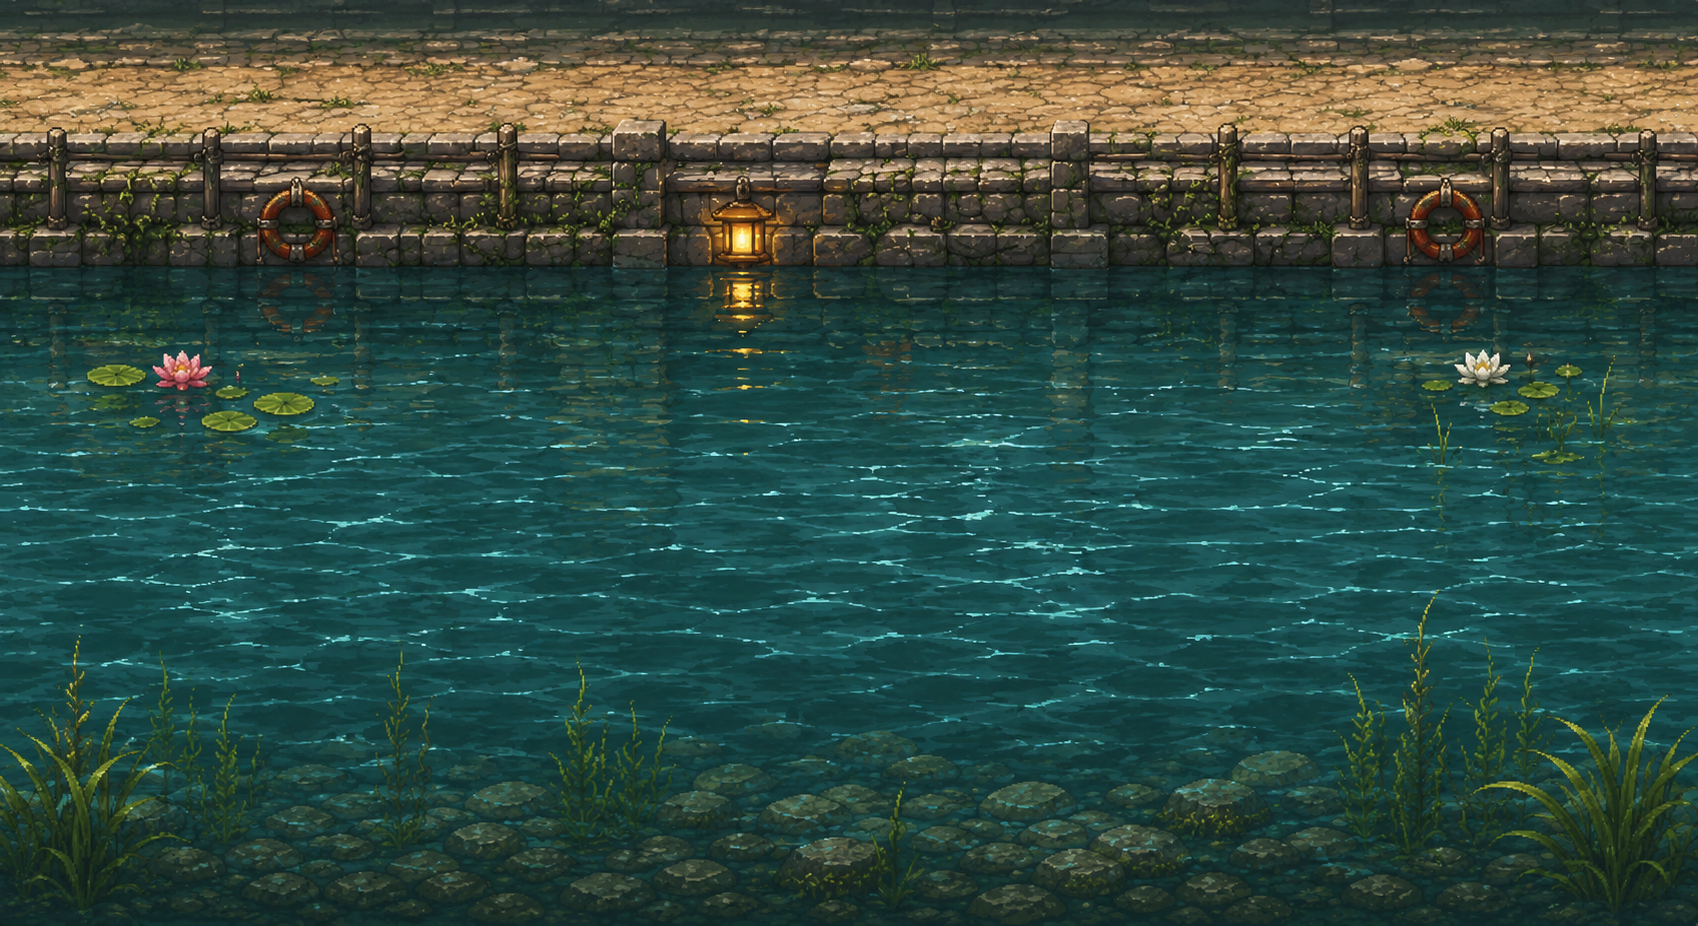
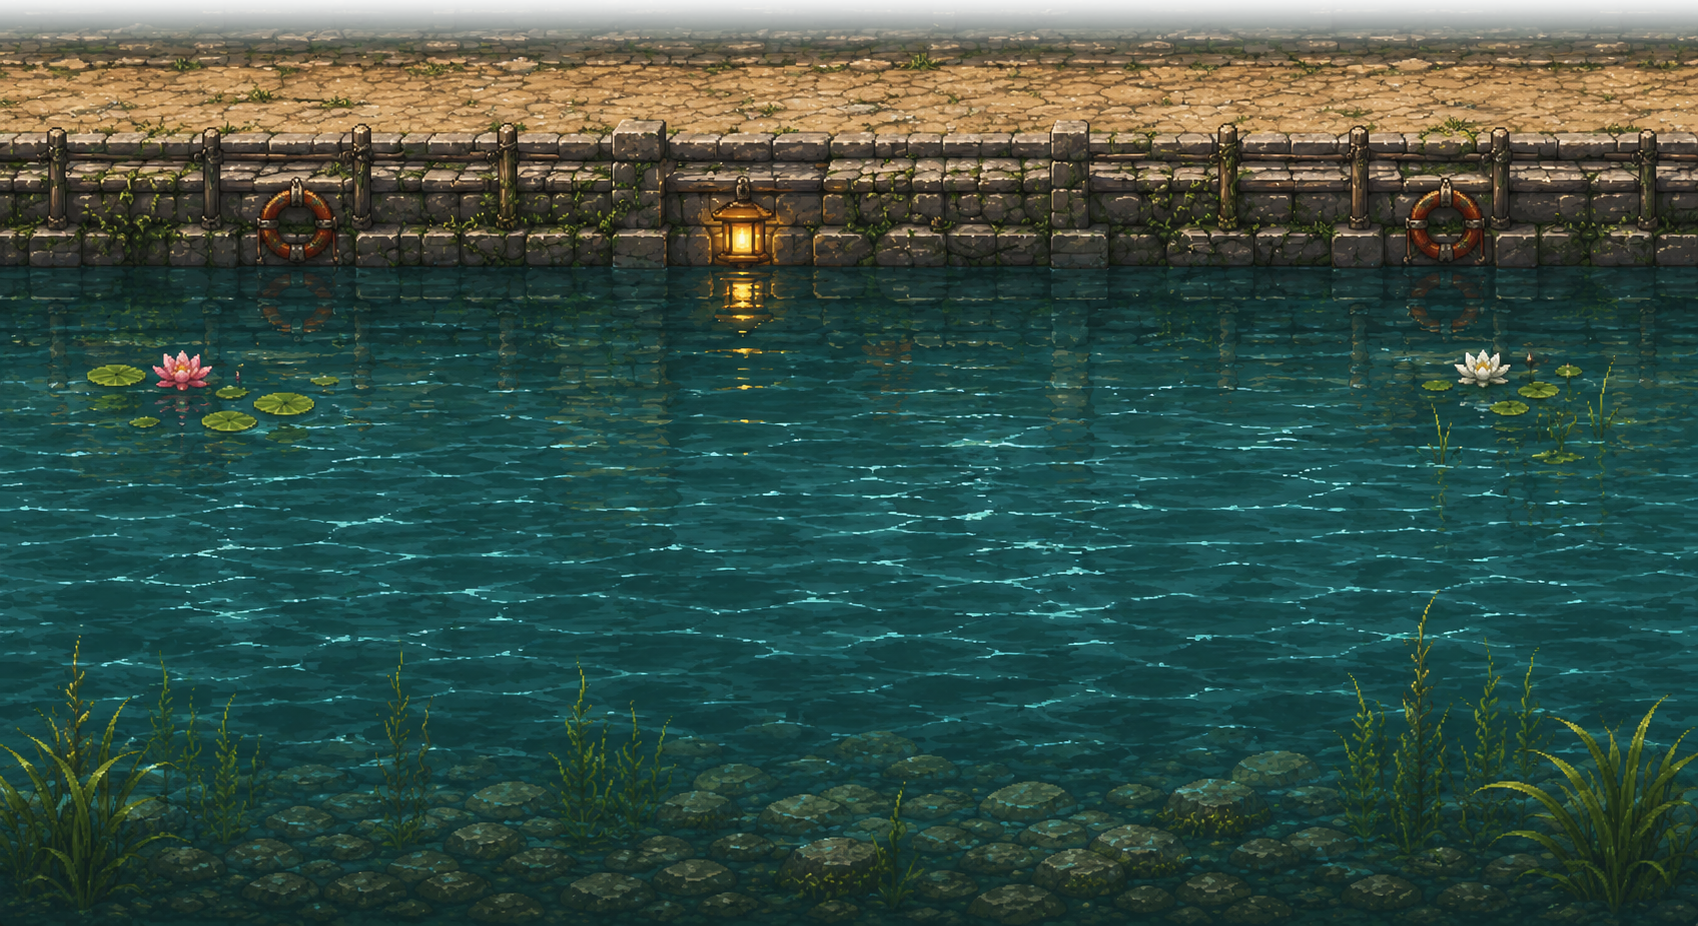
feat: 감숙성 내부 UX/배경 개선 — 성문 제거, 벽 반복 5칸으로 축소, 물 애니메이션 추가, 우측 성벽 마감
주요 변경사항:
- 성문(gate) 데코/manifest 키 완전 제거 (img_gate 로직 삭제)
- 성벽 근경(bg_inside_wall) 반복을 6칸→5칸으로 축소, 4번째 칸을 bg_inside_wall_gate로 교체
  → addTiledWall 함수를 count/gateIndex를 인자로 받도록 변경
- NPC 말풍선(Npc.ts) 위치 동탁만 미세조정 가능하도록 BUBBLE_OFFSET_ADJUST 추가
- 감숙성 내부 발판(platform) 전체 제거 (ye_castle.json platforms → [])
- 상태바(StatusBar.tsx) 아이템창(🎒)/장비창(🛡️) 버튼 삭제 (단축키 I/E는 유지)
- 수면 밴드 애니메이션 추가
  → bg_river_animation.png (4프레임 세로 스프라이트시트, 1350×291 프레임)
  → manifest에 스프라이트시트로 등록, GameScene에서 오버레이로 겹쳐 배치
  → 220ms 주기로 프레임 순환, 정지 이미지(bg_river) 위에서 물결만 흐르는 효과
- 우측 성벽 마감(right_wall.png) 추가 및 맵 배치
  → manifest에 img_right_wall 등록
  → GameScene에 rightWall 데코 종류 추가
  → ye_castle.json에 x:2932, width:536, height:420으로 배치

Changed region(s): [[0.0, 0.0, 1.0, 0.0605]]

diff --git a/frontend/src/game/scenes/GameScene.ts b/frontend/src/game/scenes/GameScene.ts
@@ -53,8 +53,8 @@ interface MapData {
   underFloorHeight?: number
   npcSpawns: { code: string; x: number; y: number }[]
   monsterSpawns: { code: string; xMin: number; xMax: number; max: number }[]
-  /** 장식 건물 (충돌 없음): 관청/성문/거리 상가 등 — groundY에 바닥을 맞춰 배치 */
-  decor?: { kind: 'gwan' | 'gate' | 'buildings'; x: number; width: number; height: number }[]
+  /** 장식 건물 (충돌 없음): 관청/거리 상가/우측 성벽 마감 등 — groundY에 바닥을 맞춰 배치 */
+  decor?: { kind: 'gwan' | 'buildings' | 'rightWall'; x: number; width: number; height: number }[]
   /** 포탈: 근처에서 ↑키로 targetMap으로 이동 (GAME_DESIGN 맵 이동) */
   portals?: PortalDef[]
 }
@@ -62,8 +62,8 @@ interface MapData {
 /** decor kind → 아트 키 매핑. 실제 아트가 없으면 도형 placeholder 대신 생략한다. */
 const DECOR_TEXTURES: Record<string, { art: string }> = {
   gwan: { art: 'img_gwan' },
-  gate: { art: 'img_gate' },
   buildings: { art: 'img_buildings' },
+  rightWall: { art: 'img_right_wall' },
 }
 
 /** 포탈 상호작용 반경 (px) */
@@ -97,7 +97,7 @@ const DEPTH = {
   BG_FAR: -100,   // 먼 배경(하늘/원경)
   BG_MID: -80,    // 중경(성벽/산/건물 실루엣)
   BG_NEAR: -60,   // 근경(반복 성벽/나무)
-  DECOR: -52,     // 관청/성문 등 건물 (액터 뒤)
+  DECOR: -52,     // 관청 등 건물 (액터 뒤)
   GROUND: -50,    // 보행로/발판/장애물/사다리
   FOREGROUND: -40, // 바닥 아래 장식(연못) — 돌바닥 위, 액터 아래
 } as const
@@ -137,6 +137,13 @@ export class GameScene extends Phaser.Scene {
   private tileScaleFor(key: string, targetH: number) {
     const img = this.textures.get(key).getSourceImage() as HTMLImageElement
     return targetH / img.height
+  }
+
+  /** tileScaleFor와 달리 스프라이트시트의 개별 프레임 높이 기준으로 스케일을 계산한다
+   * (스프라이트시트는 getSourceImage()가 시트 전체 크기를 반환해 tileScaleFor를 못 쓴다). */
+  private tileScaleForFrame(key: string, frame: number, targetH: number) {
+    const f = this.textures.get(key).get(frame)
+    return targetH / f.height
   }
 
   constructor() {
@@ -190,6 +197,38 @@ export class GameScene extends Phaser.Scene {
       return layer
     }
 
+    /**
+     * addLayer와 달리 tileSprite(GPU REPEAT) 대신 타일 폭만큼 개별 Image를 나란히 배치한다.
+     * tileSprite는 반복 단위를 통째로 같은 텍스처로만 채우기 때문에 "특정 칸만 다른 그림"이
+     * 불가능해서, 성벽 중간 칸에 성문(gate) 변형을 끼워 넣으려면 이 방식이 필요하다.
+     * count/gateIndex는 호출부에서 직접 지정한다 — cover(scroll) 기준으로 자동 계산하면
+     * parallax(스크롤계수 0.6) 여유분 때문에 카메라를 끝까지 밀어도 화면에 거의/전혀 안 잡히는
+     * 칸까지 만들어져(마지막 칸은 화면에 아예 안 잡히고, 그 앞 칸도 가장자리 일부만 잠깐 보임)
+     * 값을 눈으로 확인하며 맞추는 게 낫다.
+     * 타일 폭을 정수로 반올림해 배치해야 setRoundPixels(true)에서 칸마다 독립적으로 반올림되며
+     * 생기는 1px 이음새를 막을 수 있다.
+     */
+    const addTiledWall = (
+      key: string, gateKey: string, scroll: number, depth: number, heightPx: number, topY: number,
+      count: number, gateIndex: number,
+    ) => {
+      if (!this.art(key)) return
+      const yScroll = scroll < 0.2 ? scroll : 1
+      const sc = this.tileScaleFor(key, heightPx)
+      const tileW = Math.round((this.textures.get(key).getSourceImage() as HTMLImageElement).width * sc)
+      const hasGate = this.art(gateKey)
+      for (let i = 0; i < count; i++) {
+        const texKey = hasGate && i === gateIndex ? gateKey : key
+        this.add
+          .image(i * tileW, topY, texKey)
+          .setOrigin(0, 0)
+          .setScrollFactor(scroll, yScroll)
+          .setDepth(depth)
+          .setDisplaySize(tileW, heightPx)
+        this.textures.get(texKey).setFilter(Phaser.Textures.FilterMode.NEAREST)
+      }
+    }
+
     if (map.theme === 'castle_interior') {
       this.cameras.main.setBackgroundColor(0xa8dde0)
       // far: 하늘 + 먼 원경 (아주 느림)
@@ -204,10 +243,14 @@ export class GameScene extends Phaser.Scene {
       if (this.art('img_castle_mid')) {
         addLayer('img_castle_mid', 0.35, DEPTH.BG_MID, 300, map.groundY - 280)
       }
-      // near: 안뜰을 두른 성벽 — bg_inside_wall(가로 반복). CASTLE_WALL_H를 건물보다 크게 잡아
-      // 성벽 상단이 건물 지붕 위로 드러나 보이게 한다.
+      // near: 안뜰을 두른 성벽 — bg_inside_wall 5칸 반복, 4번째 칸만 bg_inside_wall_gate.
+      // CASTLE_WALL_H를 건물보다 크게 잡아 성벽 상단이 건물 지붕 위로 드러나 보이게 한다.
       const wallH = CASTLE_WALL_H
-      addLayer(this.art('img_castle_wall') ? 'img_castle_wall' : 'ph_wall', 0.6, DEPTH.BG_NEAR, wallH, map.groundY - wallH - 40)
+      if (this.art('img_castle_wall')) {
+        addTiledWall('img_castle_wall', 'img_castle_wall_gate', 0.7, DEPTH.BG_NEAR, wallH + 25, map.groundY - wallH - 33, 5, 3)
+      } else {
+        addLayer('ph_wall', 0.7, DEPTH.BG_NEAR, wallH + 25, map.groundY - wallH - 33)
+      }
     } else {
       // 야외(성 밖): 하늘 → 먼 산 → 언덕/성곽
       addLayer(this.art('bg_sky') ? 'bg_sky' : 'ph_bg_far', 0.1, DEPTH.BG_FAR, map.worldHeight, 0)
@@ -242,9 +285,28 @@ export class GameScene extends Phaser.Scene {
     // 바닥 아래 장식(연못/안뜰)은 돌바닥보다 위 depth — 돌바닥 하단 가림 없이 앞에 보인다 (⑦)
     if (this.art(underArtKey)) {
       const wh = underH + 40
-      const band = this.add.tileSprite(0, map.worldHeight - wh, map.worldWidth, wh, underArtKey).setOrigin(0, 0)
-      band.setTileScale(this.tileScaleFor(underArtKey, wh))
-      band.setDepth(DEPTH.FOREGROUND)
+      const bandY = map.worldHeight - wh
+      this.add.tileSprite(0, bandY, map.worldWidth, wh, underArtKey).setOrigin(0, 0)
+        .setTileScale(this.tileScaleFor(underArtKey, wh))
+        .setDepth(DEPTH.FOREGROUND)
+      // 물결 애니메이션 오버레이 — 정지 이미지(bg_river) 위에 같은 자리·크기로 겹친다.
+      // bg_river_anim은 물 부분만 담고 위아래가 알파 그라데이션으로 빠져 있어서, 덮어놔도
+      // 정지 이미지의 둑/연등/수초와 자연스럽게 섞인다. 프레임만 순환시켜 잔물결을 표현한다.
+//       if (map.underFloorStyle !== 'stone' && this.art('bg_river_anim')) {
+//         const overlay = this.add.tileSprite(0, bandY + 40, map.worldWidth, wh, 'bg_river_anim', 0).setOrigin(0, 0)
+//         overlay.setTileScale(this.tileScaleForFrame('bg_river_anim', 0, wh))
+//         overlay.setDepth(DEPTH.FOREGROUND + 1)
+//         const frameCount = this.textures.get('bg_river_anim').frameTotal - 1 // frameTotal은 __BASE 포함
+//         let frame = 0
+//         this.time.addEvent({
+//           delay: 220,
+//           loop: true,
+//           callback: () => {
+//             frame = (frame + 1) % frameCount
+//             overlay.setTexture('bg_river_anim', frame)
+//           },
+//         })
+//       }
     } else {
       this.add.tileSprite(0, map.groundY + 32, map.worldWidth, underH, underFallback)
         .setOrigin(0, 0).setDepth(DEPTH.FOREGROUND)
@@ -297,16 +359,13 @@ export class GameScene extends Phaser.Scene {
       }
     }
 
-    // ---- 장식 건물 (관청/성문 — 충돌 없음, 지면에 바닥 정렬) ----
+    // ---- 장식 건물 (관청 — 충돌 없음, 지면에 바닥 정렬) ----
     // 실제 아트가 없으면 도형 placeholder로 대체하지 않고 아예 생략한다 (건물이 안 보이는 편이
     // 삼각형 지붕 도형이 보이는 것보다 낫다 — img_castle_mid와 동일한 정책).
     for (const d of map.decor ?? []) {
       const tex = DECOR_TEXTURES[d.kind]
       if (!tex || !this.art(tex.art)) continue
-      // 성문(gate)은 독립된 앞건물이 아니라 성벽의 연장선 — 성벽(BG_NEAR)과 같은 평면에 둬야
-      // 근경 건물처럼 따로 튀어나와 보이지 않고 성벽에서 이어지는 것처럼 보인다.
-      const depth = d.kind === 'gate' ? DEPTH.BG_NEAR : DEPTH.DECOR
-      this.add.image(d.x, map.groundY, tex.art).setOrigin(0.5, 1).setDisplaySize(d.width, d.height).setDepth(depth)
+      this.add.image(d.x, map.groundY, tex.art).setOrigin(0.5, 1).setDisplaySize(d.width, d.height).setDepth(DEPTH.DECOR)
     }
 
     const ladders = map.ladders.map((l) => {

diff --git a/frontend/src/game/entities/Npc.ts b/frontend/src/game/entities/Npc.ts
@@ -15,6 +15,15 @@ const INTERACT_RANGE = 60
 const NPC_DEPTH = -10
 
 /**
+ * 말풍선 Y오프셋 미세조정(px, 기본 계산값에 더함). 원본 이미지의 여백/비율 차이로 특정
+ * NPC만 말풍선이 머리와 어긋나 보일 때 여기서 그 NPC(textureKey)만 보정한다.
+ * 양수 = 더 위로, 음수 = 더 아래로.
+ */
+const BUBBLE_OFFSET_ADJUST: Record<string, number> = {
+  npc_castle_lord: 0, // 동탁 — 위치를 옮기려면 이 값을 조정
+}
+
+/**
  * 비전투 NPC (GAME_DESIGN 9장): 이름표 + 주기적 말풍선(월드 좌표 부착 = Phaser 담당).
  * 대화창 UI는 React가 담당 — 여기서는 상호작용 이벤트만 발행한다.
  */
@@ -57,7 +66,7 @@ export class Npc extends Phaser.GameObjects.Sprite {
 
     // 말풍선: NPC 실제 크기(발밑 이름표와 같은 기준)에 맞춰 머리 위 여백을 계산 —
     // 동탁(136px)은 자연히 더 높게, 작은 NPC(82px)는 더 낮게 위치한다.
-    const bubbleOffsetY = this.displayHeight / 2 + 14
+    const bubbleOffsetY = this.displayHeight / 2 + 14 + (BUBBLE_OFFSET_ADJUST[def.textureKey] ?? 0)
     this.bubbleText = scene.add
       .text(0, 0, '', { fontSize: '12px', color: '#333333', wordWrap: { width: 150 } })
       .setOrigin(0.5)

diff --git a/frontend/src/ui/StatusBar.tsx b/frontend/src/ui/StatusBar.tsx
@@ -1,7 +1,6 @@
 import { useEffect, useRef } from 'react'
 import { useGameStore } from '../stores/gameStore'
 import { useUiStore } from '../stores/uiStore'
-import { EventBus, GameEvents } from '../game/EventBus'
 
 /**
  * 하단 중앙 상태바 (메이플 스타일): Lv 배지 + 이름 + HP/MP 바(수치 표기) + 메뉴 버튼.
@@ -50,8 +49,6 @@ export function StatusBar() {
       <div className="statusbar-menu">
         <button className="menu-btn" title="스탯 (S)" onClick={() => useUiStore.getState().toggleStats()}>👤</button>
         <button className="menu-btn" title="스킬 (K)" onClick={() => useUiStore.getState().toggleSkillbook()}>📖</button>
-        <button className="menu-btn" title="아이템 (I)" onClick={() => EventBus.emit(GameEvents.TOGGLE_INVENTORY)}>🎒</button>
-        <button className="menu-btn" title="장비창 (E)" onClick={() => useUiStore.getState().toggleEquip()}>🛡</button>
         <button className="menu-btn" title="퀘스트 (Q)" onClick={() => useUiStore.getState().toggleQuest()}>📜</button>
         <button className="menu-btn" title="미니맵 (M)" onClick={() => useUiStore.getState().toggleMinimap()}>🗺</button>
         <button className="menu-btn" title="설정 (ESC)" onClick={() => useUiStore.getState().setSettingsOpen(true)}>⚙</button>

diff --git a/frontend/src/game/config.ts b/frontend/src/game/config.ts
@@ -47,7 +47,7 @@ export const PLAYER = {
    * 발끝을 잔디 경계(충돌면)보다 안쪽으로 내리는 양(px, 월드). 0이면 잔디 맨 윗선에 발이 닿아
    * 공중에 뜬 것처럼 보인다 — 잔디 중앙에 발이 오도록 양수로. 높이면 더 깊이 내려간다.
    */
-  FOOT_SINK: 4,
+  FOOT_SINK: 6,
 } as const
 
 export const COMBAT = {

diff --git a/frontend/public/assets/CREDITS.md b/frontend/public/assets/CREDITS.md
@@ -7,6 +7,9 @@
 | assets/img/bg/bg_sky.png (하늘) | AI 생성 (GPT, AI_IMAGE_PROMPTS.md A1) | 자체 생성물 | - | 2026-07-10 (경로 이동 07-12) |
 | assets/img/bg/bg_castle.png (성곽 중경) | AI 생성 (GPT, A3) | 자체 생성물 | - | 2026-07-10 (경로 이동 07-12) |
 | assets/img/bg/bg_inside_wall.png (감숙성 내부 성벽, 가로 반복) | AI 생성 | 자체 생성물 | - | 2026-07-12 |
+| assets/img/bg/bg_inside_wall_gate.png (감숙성 내부 성벽, 반복 마지막 칸 성문) | AI 생성 | 자체 생성물 | - | 2026-07-13 |
+| assets/img/bg/bg_river_animation.png (수면 밴드 애니메이션, 4프레임 세로 스프라이트시트) | AI 생성 | 자체 생성물 | - | 2026-07-13 |
+| assets/img/structures/right_wall.png (감숙성 내부 우측 성벽 마감) | AI 생성 | 자체 생성물 | - | 2026-07-14 |
 | assets/img/walkway.png (보행로) | AI 생성 (GPT, B1) | 자체 생성물 | - | 2026-07-10 |
 | assets/img/underfloor_water.png (수면 밴드) | AI 생성 (GPT, B2) | 자체 생성물 | - | 2026-07-10 |
 | assets/img/platform_stone.png (돌 발판) | AI 생성 (GPT, B3) | 자체 생성물 | - | 2026-07-10 |